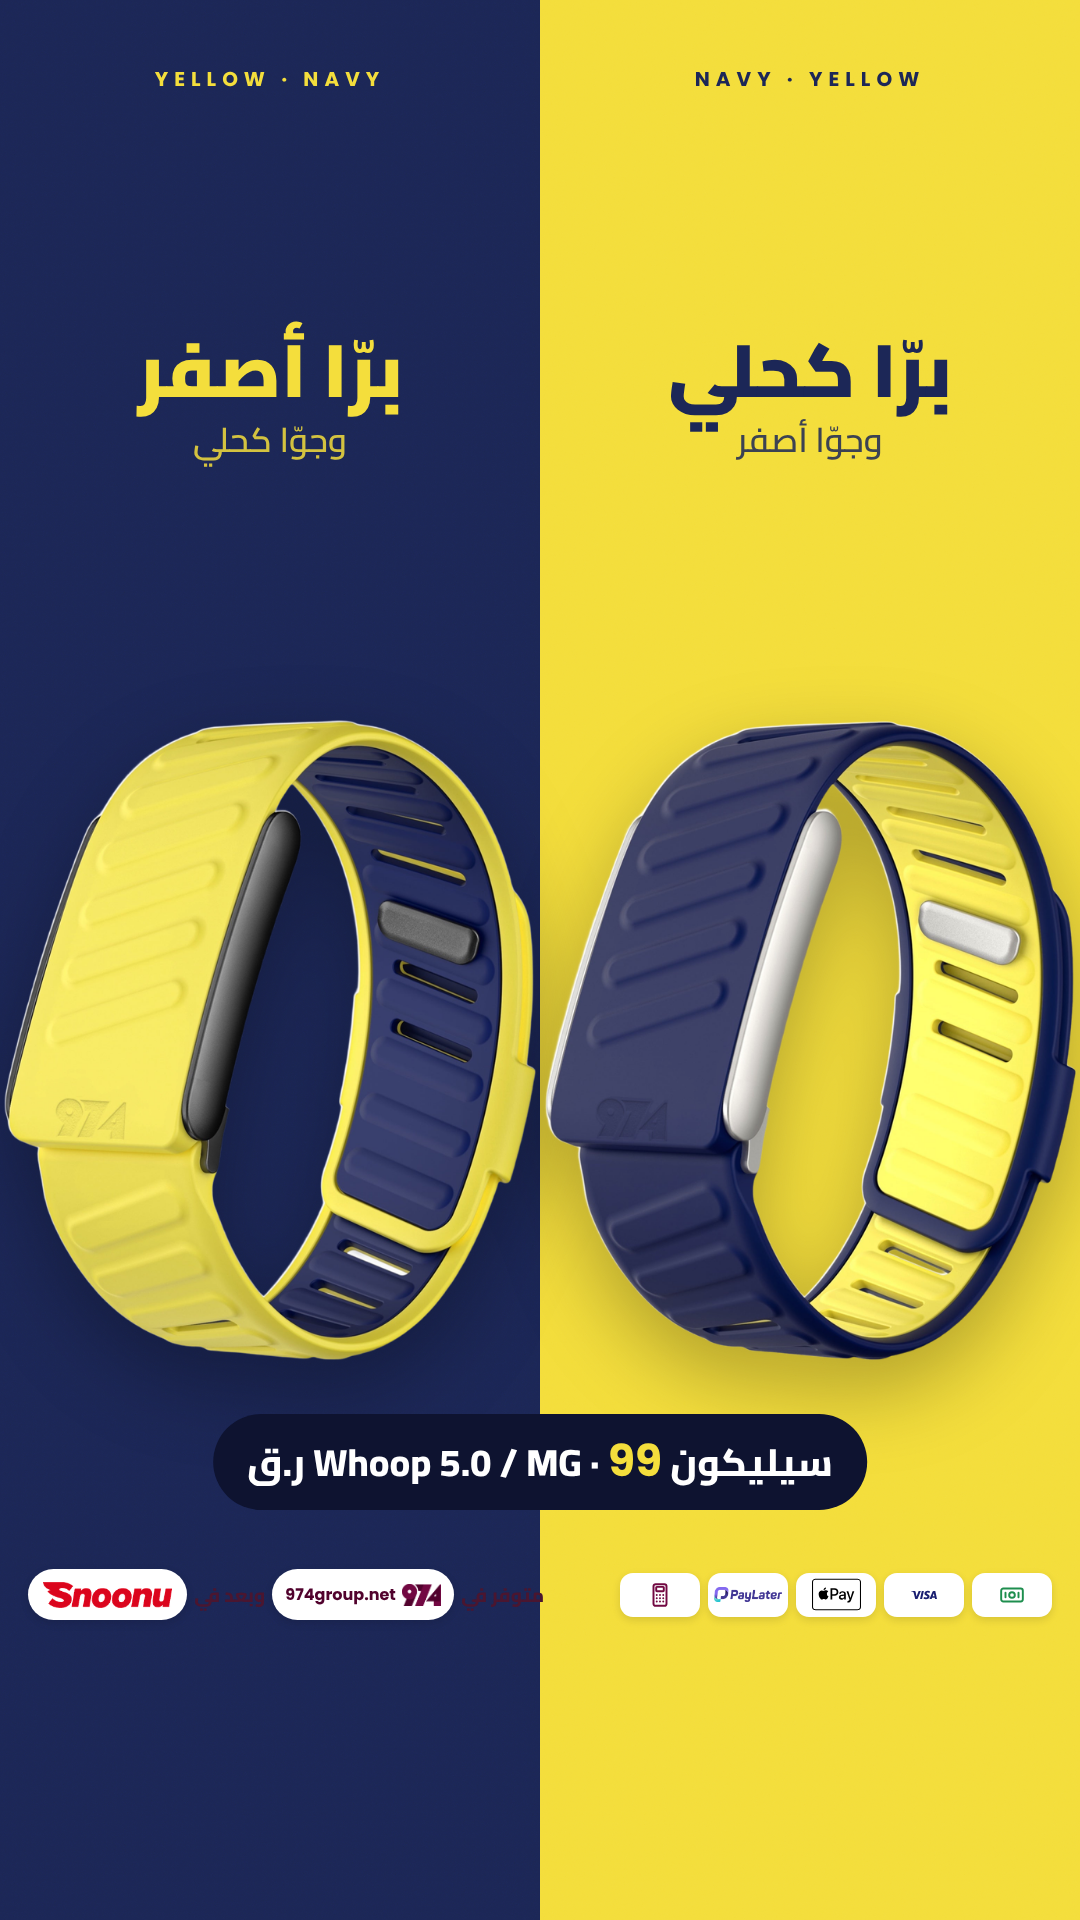
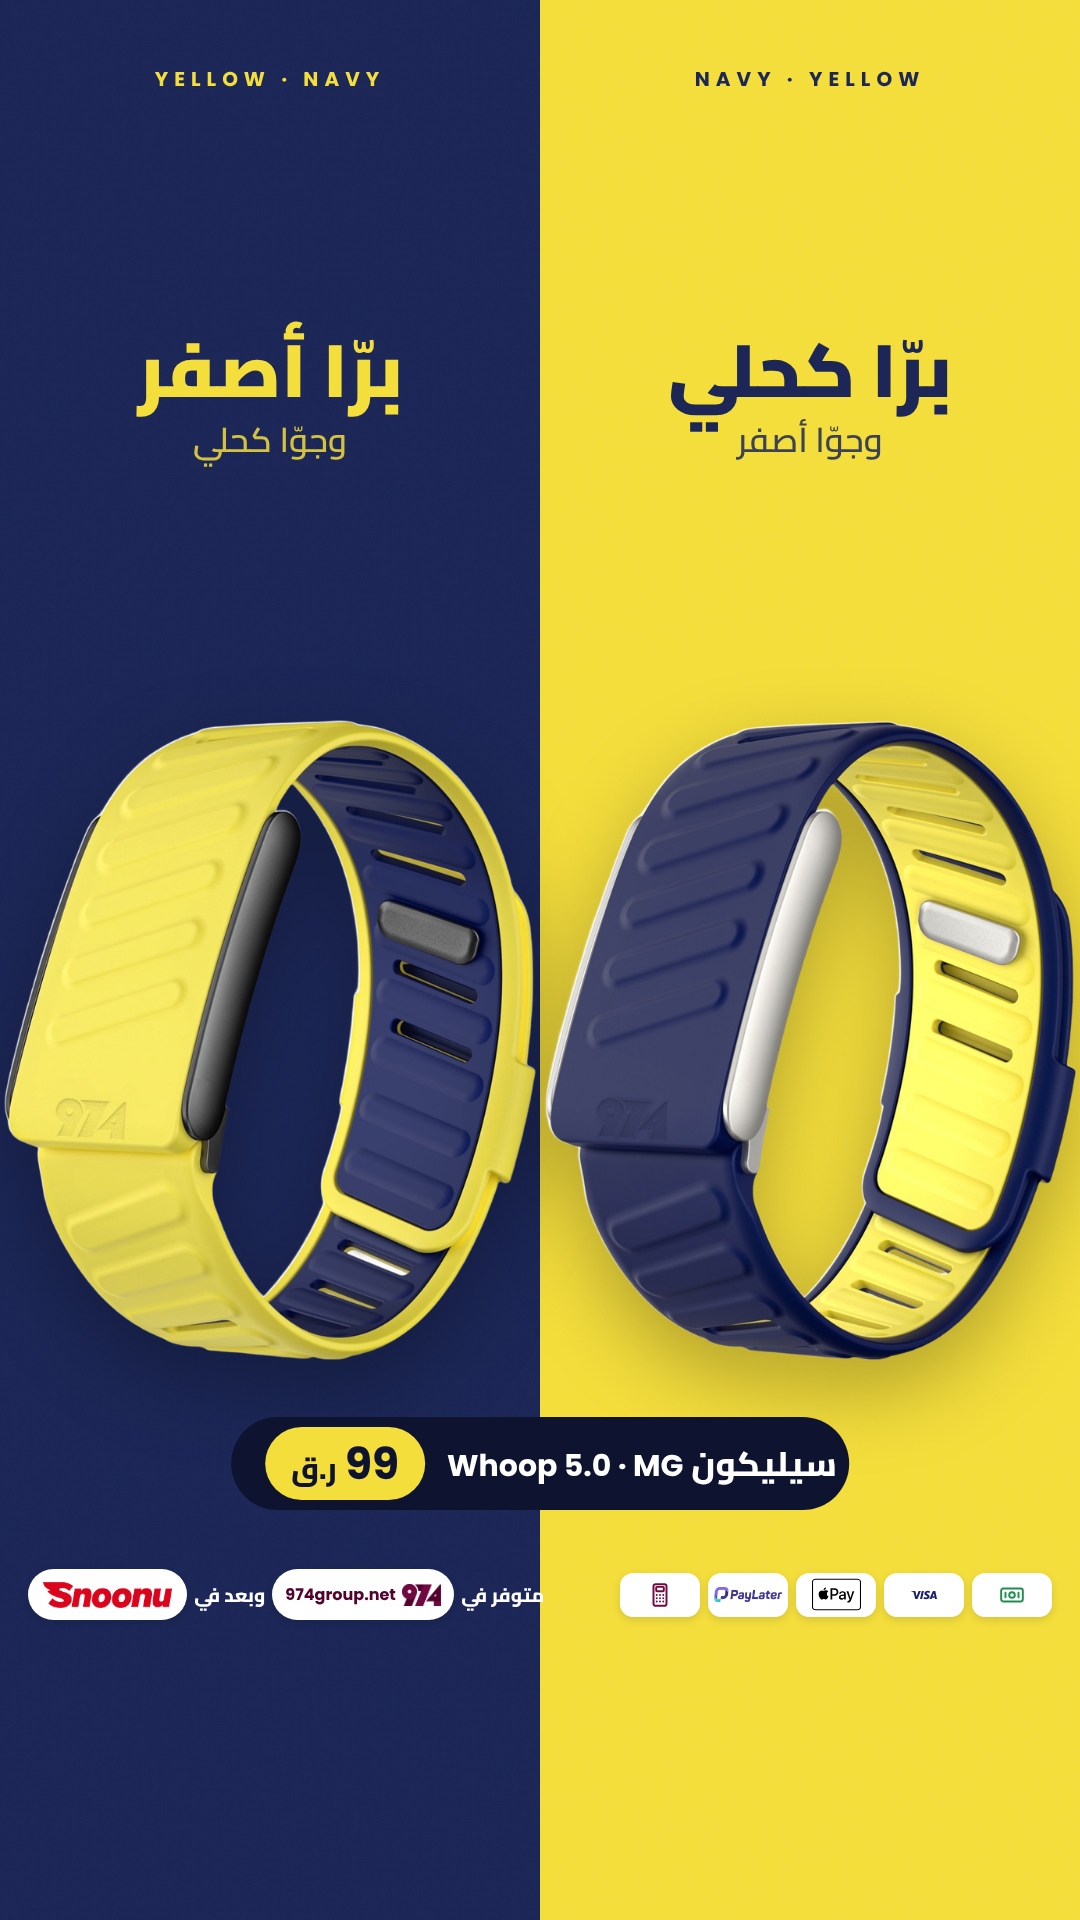
Navy/Yellow design: clean name/price pill, white footer text on navy
Claude-Session: https://claude.ai/code/session_01K6HDWNrArsGSJekW1VcEzV

Changed region(s): [[0.1833, 0.7188, 0.825, 0.7812], [0.4278, 0.8125, 0.4889, 0.8438], [0.1833, 0.8125, 0.2444, 0.8438]]

diff --git a/posts/2026-11/whoop5-navy-yellow/gen.py b/posts/2026-11/whoop5-navy-yellow/gen.py
@@ -30,9 +30,12 @@ body{{width:{W}px;height:{H}px;position:relative;overflow:hidden;font-family:Cai
 .b1{{left:25%;transform:translateX(-50%)}}
 .b2{{left:75%;transform:translateX(-50%)}}
 .ol{{position:absolute;top:{band_y+bh-40}px;left:0;right:0;text-align:center;font-family:Poppins;font-weight:700;font-size:{150 if story else 120}px;letter-spacing:-4px;color:transparent;-webkit-text-stroke:2px rgba(255,255,255,.55);opacity:.9}}
-.price{{position:absolute;bottom:{price_b}px;left:50%;transform:translateX(-50%);background:{INK};color:#fff;border-radius:999px;padding:12px 34px;font-weight:800;font-size:38px;direction:rtl;white-space:nowrap}}
-.price b{{font-family:Poppins;font-weight:700;font-size:44px;color:{YEL}}}
-{payfoot.css(1.0 if not story else 1.12)}
+.price{{position:absolute;bottom:{price_b}px;left:50%;transform:translateX(-50%);background:{INK};color:#fff;border-radius:999px;padding:10px 12px 10px 34px;display:flex;align-items:center;gap:22px;direction:rtl;white-space:nowrap}}
+.price .nm{{font-weight:800;font-size:34px}}
+.price .nm bdi{{font-family:Poppins;font-weight:700;font-size:30px;margin-right:8px}}
+.price .pr{{background:{YEL};color:{INK};border-radius:999px;padding:4px 26px;font-weight:800;font-size:30px;display:flex;align-items:baseline;gap:8px}}
+.price .pr b{{font-family:Poppins;font-weight:700;font-size:44px}}
+{payfoot.css(1.0 if not story else 1.12, text='#FFFFFF')}
 .pf{{position:absolute;left:28px;right:28px;bottom:{pf}px}}
 </style></head><body>
 <div class="half l"></div><div class="half r"></div>
@@ -41,7 +44,7 @@ body{{width:{W}px;height:{H}px;position:relative;overflow:hidden;font-family:Cai
 <div class="hd"><div class="y">برّا كحلي<small>وجوّا أصفر</small></div><div class="n">برّا أصفر<small>وجوّا كحلي</small></div></div>
 <div class="band b1"><img src="file://{__import__('os').getcwd()}/yellownavy.png"></div>
 <div class="band b2"><img src="file://{__import__('os').getcwd()}/navyyellow.png"></div>
-<div class="price">سيليكون Whoop 5.0 / MG · <b>99</b> ر.ق</div>
+<div class="price"><span class="nm">سيليكون<bdi dir="ltr">Whoop 5.0 · MG</bdi></span><span class="pr"><b>99</b>ر.ق</span></div>
 <div class="pf">{payfoot.html()}</div>
 </body></html>'''
 import os
